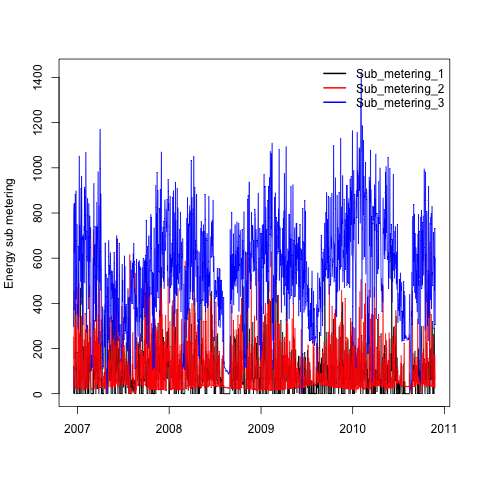
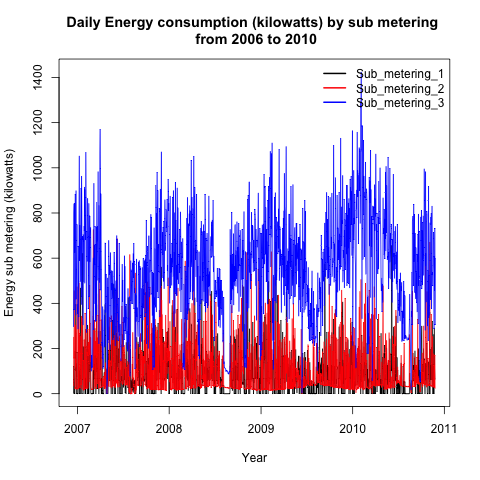
Update

Changed region(s): [[0.125, 0.0312, 0.9375, 0.0938], [0.0, 0.3125, 0.0312, 0.6562], [0.5, 0.9375, 0.5625, 0.9688]]

diff --git a/q3/Individual_household_electric_power_consumption.html b/q3/Individual_household_electric_power_consumption.html
@@ -111,7 +111,7 @@ datatable$Day  = as.POSIXlt(datatable$Date)$yday</code></pre>
                                                          Sub_metering_3      = sum(Sub_metering_3)/1000*60)</code></pre>
 <pre class="r"><code>png(file=&quot;plot1.png&quot;,width=480,height=480)
 with(datatable0, {
-    plot(Date, Sub_metering_3, ylab = &quot;Energy sub metering&quot;, type = &quot;n&quot;, xlab = &quot;&quot;)
+    plot(Date, Sub_metering_3, ylab = &quot;Energy sub metering (kilowatts)&quot;, type = &quot;n&quot;, xlab = &quot;Year&quot;, main = &quot;Daily Energy consumption (kilowatts) by sub metering \n from 2006 to 2010&quot;)
     lines(Date, Sub_metering_1, col=&quot;black&quot;)
     lines(Date, Sub_metering_2, col=&quot;red&quot;)
     lines(Date, Sub_metering_3, col=&quot;blue&quot;)
@@ -126,7 +126,7 @@ dev.off()</code></pre>
                                                          Sub_metering_3      = sum(Sub_metering_3)/1000*60)</code></pre>
 <pre class="r"><code>png(file=&quot;plot2.png&quot;,width=480,height=480)
 with(datatable1, {
-    plot(Week, Sub_metering_3, ylab = &quot;Energy sub metering&quot;, type = &quot;n&quot;, xlab = &quot;&quot;)
+    plot(Week, Sub_metering_3, ylab = &quot;Energy sub metering (kilowatts)&quot;, type = &quot;n&quot;, xlab = &quot;Week&quot;, main = &quot;Weekly Energy consumption (kilowatts) by sub metering \n averaged over 2006-2010&quot;)
     lines(Week, Sub_metering_1, col=&quot;black&quot;)
     lines(Week, Sub_metering_2, col=&quot;red&quot;)
     lines(Week, Sub_metering_3, col=&quot;blue&quot;)
